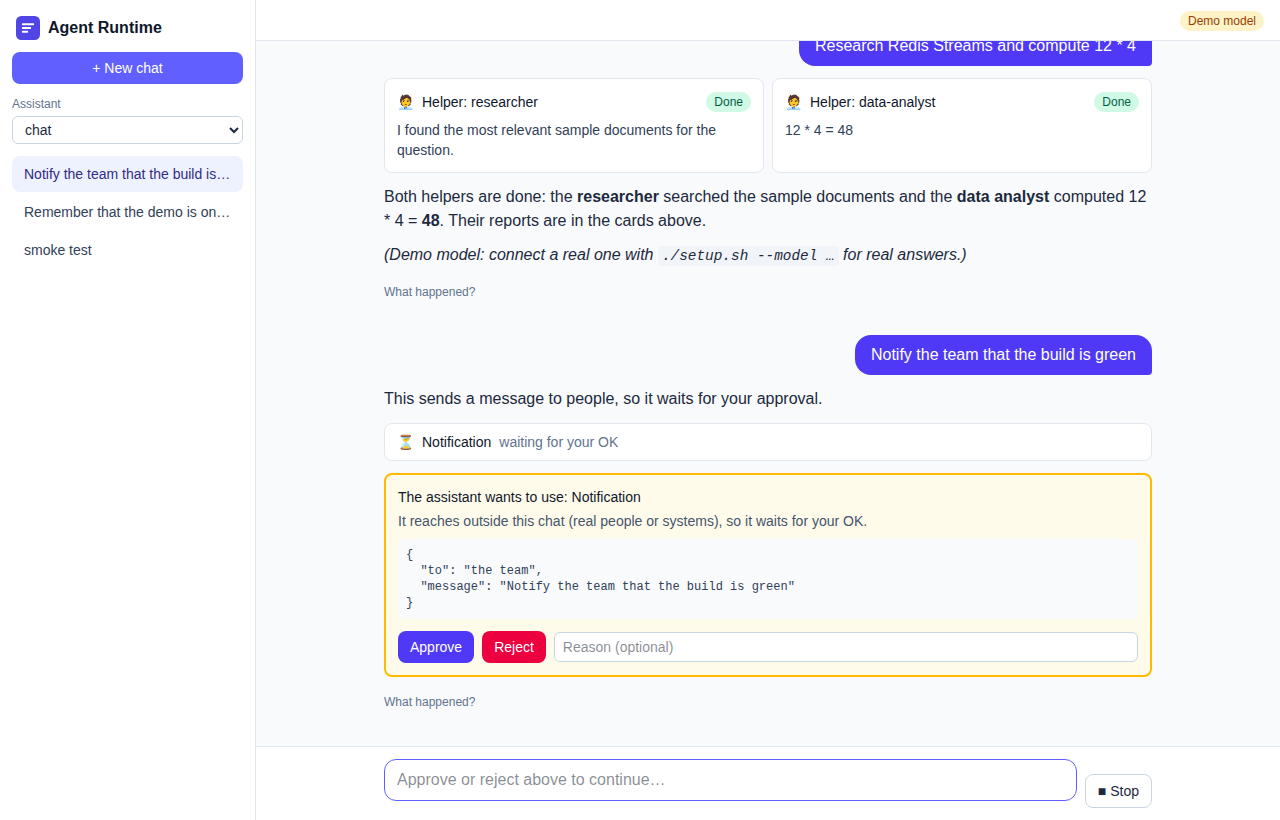
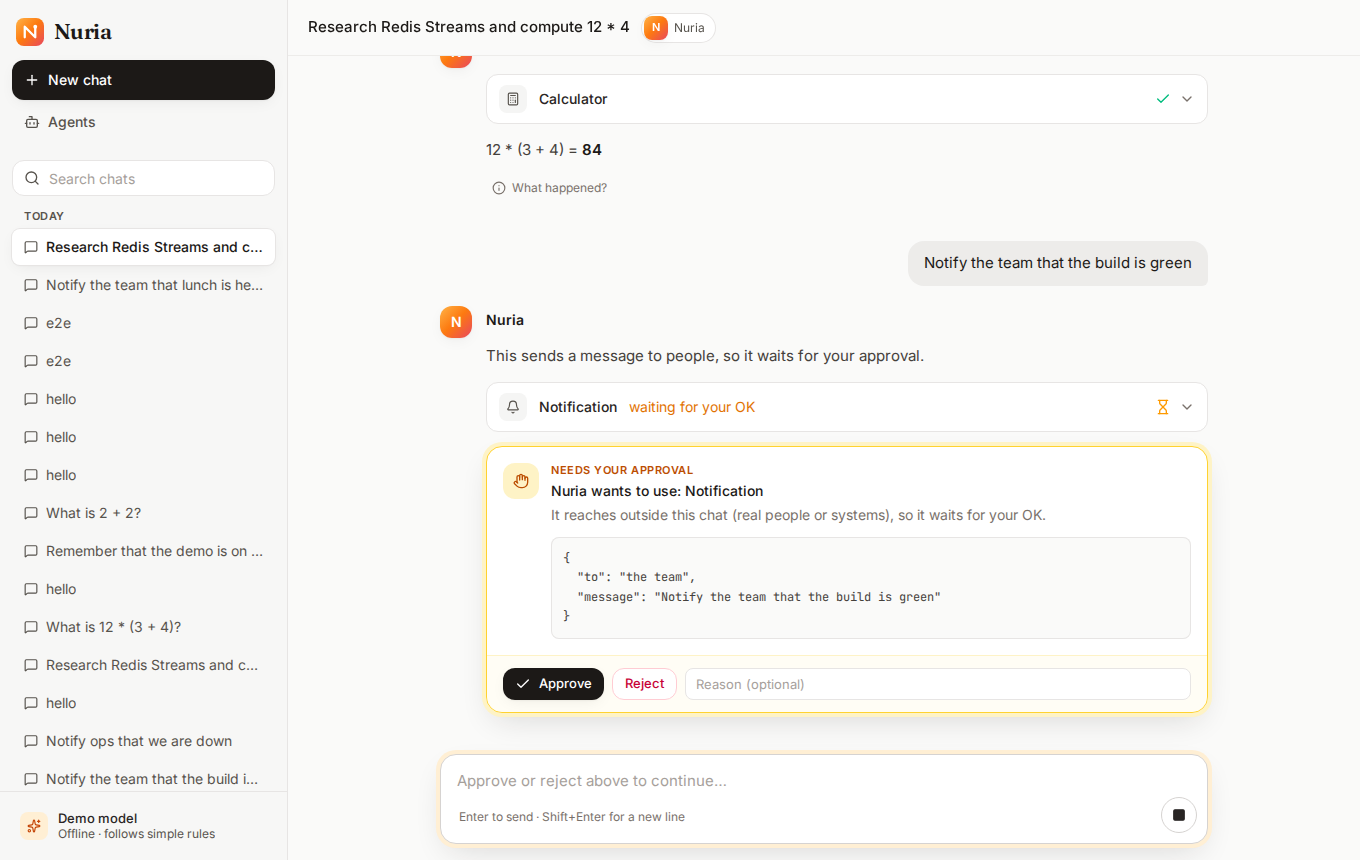
docs(l2): Nuria screenshots and summary update

diff --git a/README.md b/README.md
@@ -18,7 +18,9 @@ cd durable-langgraph-runtime
 
 Then open **http://localhost:3000** (setup opens it for you). Setup checks your machine, generates private local passwords, asks which model to use (an offline demo, a free local model with Ollama, OpenAI, Azure AI Foundry, or any OpenAI-compatible service), starts everything in Docker, and proves it works with a real chat turn. Guides for each OS, models and troubleshooting: [docs/setup/](docs/setup/).
 
-![The chat: two helpers' results, then a notification waiting for approval](docs/images/chat-ui.png)
+| Home | A chat | An agent and its helpers |
+|---|---|---|
+| ![Home](docs/images/home.png) | ![A chat waiting for approval](docs/images/chat-ui.png) | ![The Nuria agent](docs/images/agent.png) |
 
 **In Nuria:** replies stream in; tool calls show as cards; helpers (sub-agents) show their progress live; anything that reaches the outside world waits for your **Approve**; **Stop** keeps what was written so far; **What happened?** tells each reply's story, including a worker that crashed and the one that took over. **Agents** shows each agent's instructions, tools, limits and helpers (sub-agents); building your own comes next, with the Agent Studio. On the offline demo model, pick a suggestion or say *hello*.
 

diff --git a/docs/progress/phase-L2.md b/docs/progress/phase-L2.md
@@ -1,5 +1,7 @@
 # Phase L2 — Chat UI (milestone M1: it works in the browser)
 
+> **Update, same phase: the UI became _Nuria_.** A redesign after review: a home screen with suggestions (the chat starts from the first message), a new visual language (warm neutrals, an ink primary, a sunrise accent; Inter, Fraunces, Lucide icons), tool steps as compact rows, and an **Agents** section showing each agent's instructions, tools, limits and helpers (read-only: building agents is the Studio, L3 + L4). Test agents are hidden with a new `hidden` flag. Browser suite after the redesign: **75/75** (15 scenarios × 5), axe clean on every screen.
+
 **Completed:** 2026-10-17 · **Branch:** `feat/l2-chat-ui` · **Plan:** [plans/phase-L2.md](../plans/phase-L2.md) · **Part of:** the [local release](../plans/local-release.md) · **Tests:** backend 374 · UI unit 42 · browser 14 scenarios (+1 live) · container e2e 3
 
 ![The chat](../images/chat-ui.png)
